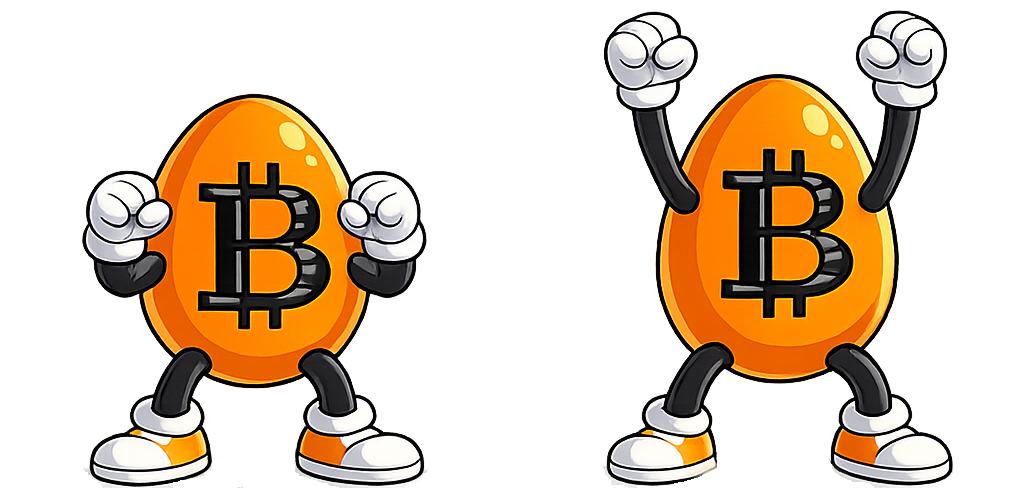
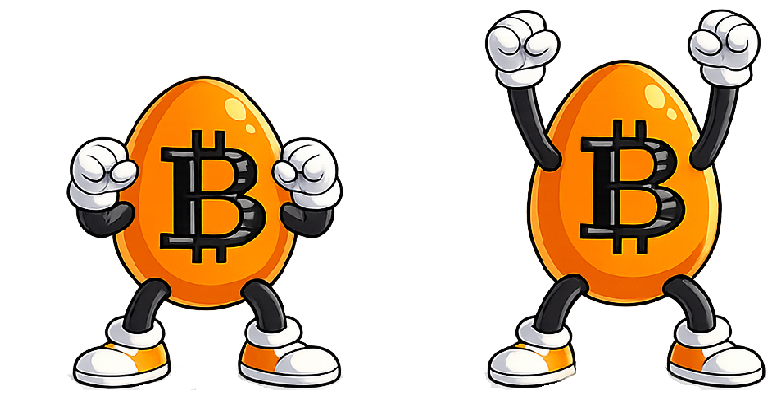
added celebration

diff --git a/src/entity/entity.player.ts b/src/entity/entity.player.ts
@@ -4,12 +4,15 @@ import { Entity } from '../ecs/entity';
 export interface PlayerAnimations {
   running: PIXI.AnimatedSprite;
   jumping: PIXI.AnimatedSprite;
+  celebrating: PIXI.AnimatedSprite;
 }
 
 export class PlayerEntity extends Entity {
   private runningSprite: PIXI.AnimatedSprite;
   private jumpingSprite: PIXI.AnimatedSprite;
+  private celebratingSprite: PIXI.AnimatedSprite;
   private isJumping = false;
+  private isCelebrating = false;
   private collisionWidth: number;
   private collisionHeight: number;
   private readonly debugGraphics: PIXI.Graphics;
@@ -20,19 +23,23 @@ export class PlayerEntity extends Entity {
 
     this.runningSprite = animations.running;
     this.jumpingSprite = animations.jumping;
+    this.celebratingSprite = animations.celebrating;
 
     // Anchor at bottom-center so both sprites share the same "feet" position
     this.runningSprite.anchor.set(0.5, 1);
     this.jumpingSprite.anchor.set(0.5, 1);
+    this.celebratingSprite.anchor.set(0.5, 1);
 
     // Jump animation plays once and holds on last frame
     this.jumpingSprite.loop = false;
 
     container.addChild(this.runningSprite);
     container.addChild(this.jumpingSprite);
+    container.addChild(this.celebratingSprite);
 
     this.runningSprite.visible = true;
     this.jumpingSprite.visible = false;
+    this.celebratingSprite.visible = false;
     this.runningSprite.play();
 
     this.ctr.scale.set(0.1, 0.1);
@@ -74,7 +81,7 @@ export class PlayerEntity extends Entity {
   }
 
   public setJumping(jumping: boolean): void {
-    if (this.isJumping === jumping) return;
+    if (this.isJumping === jumping || this.isCelebrating) return;
 
     this.isJumping = jumping;
 
@@ -89,6 +96,30 @@ export class PlayerEntity extends Entity {
     } else {
       this.jumpingSprite.visible = false;
       this.jumpingSprite.currentFrame = 0;
+      this.runningSprite.visible = true;
+      this.runningSprite.play();
+    }
+  }
+
+  public setCelebrating(celebrating: boolean): void {
+    if (this.isCelebrating === celebrating) return;
+
+    this.isCelebrating = celebrating;
+
+    // Stop all animations first
+    this.runningSprite.stop();
+    this.jumpingSprite.stop();
+    this.celebratingSprite.stop();
+
+    if (celebrating) {
+      this.isJumping = false;
+      this.runningSprite.visible = false;
+      this.jumpingSprite.visible = false;
+      this.celebratingSprite.visible = true;
+      this.celebratingSprite.gotoAndPlay(0);
+    } else {
+      this.celebratingSprite.visible = false;
+      this.celebratingSprite.currentFrame = 0;
       this.runningSprite.visible = true;
       this.runningSprite.play();
     }

diff --git a/src/scenes/simple/_main.ts b/src/scenes/simple/_main.ts
@@ -63,16 +63,18 @@ export const simpleScene = (di: IDiContainer): IScene => {
         animationSpeed: 0.25,
       });
 
+      // Celebration egg sheet: 2 frames horizontal
       const celebrationEggSprite = assetLoader.createAnimatedSprite('celebration_egg', {
         frames: 2,
-        frameWidth: 512,  // Adjust to actual frame width
-        frameHeight: 488, // Adjust to actual frame height
-        animationSpeed: 0.25,
+        frameWidth: 409,  // Adjust to actual frame width
+        frameHeight: 386, // Adjust to actual frame height
+        animationSpeed: 0.1,
       });
 
       const player = new PlayerEntity({
         running: runningEggSprite,
         jumping: jumpingEggSprite,
+        celebrating: celebrationEggSprite,
       });
 
       player.move({ x: playerSpawn.spawnX, y: playerSpawn.spawnY });
